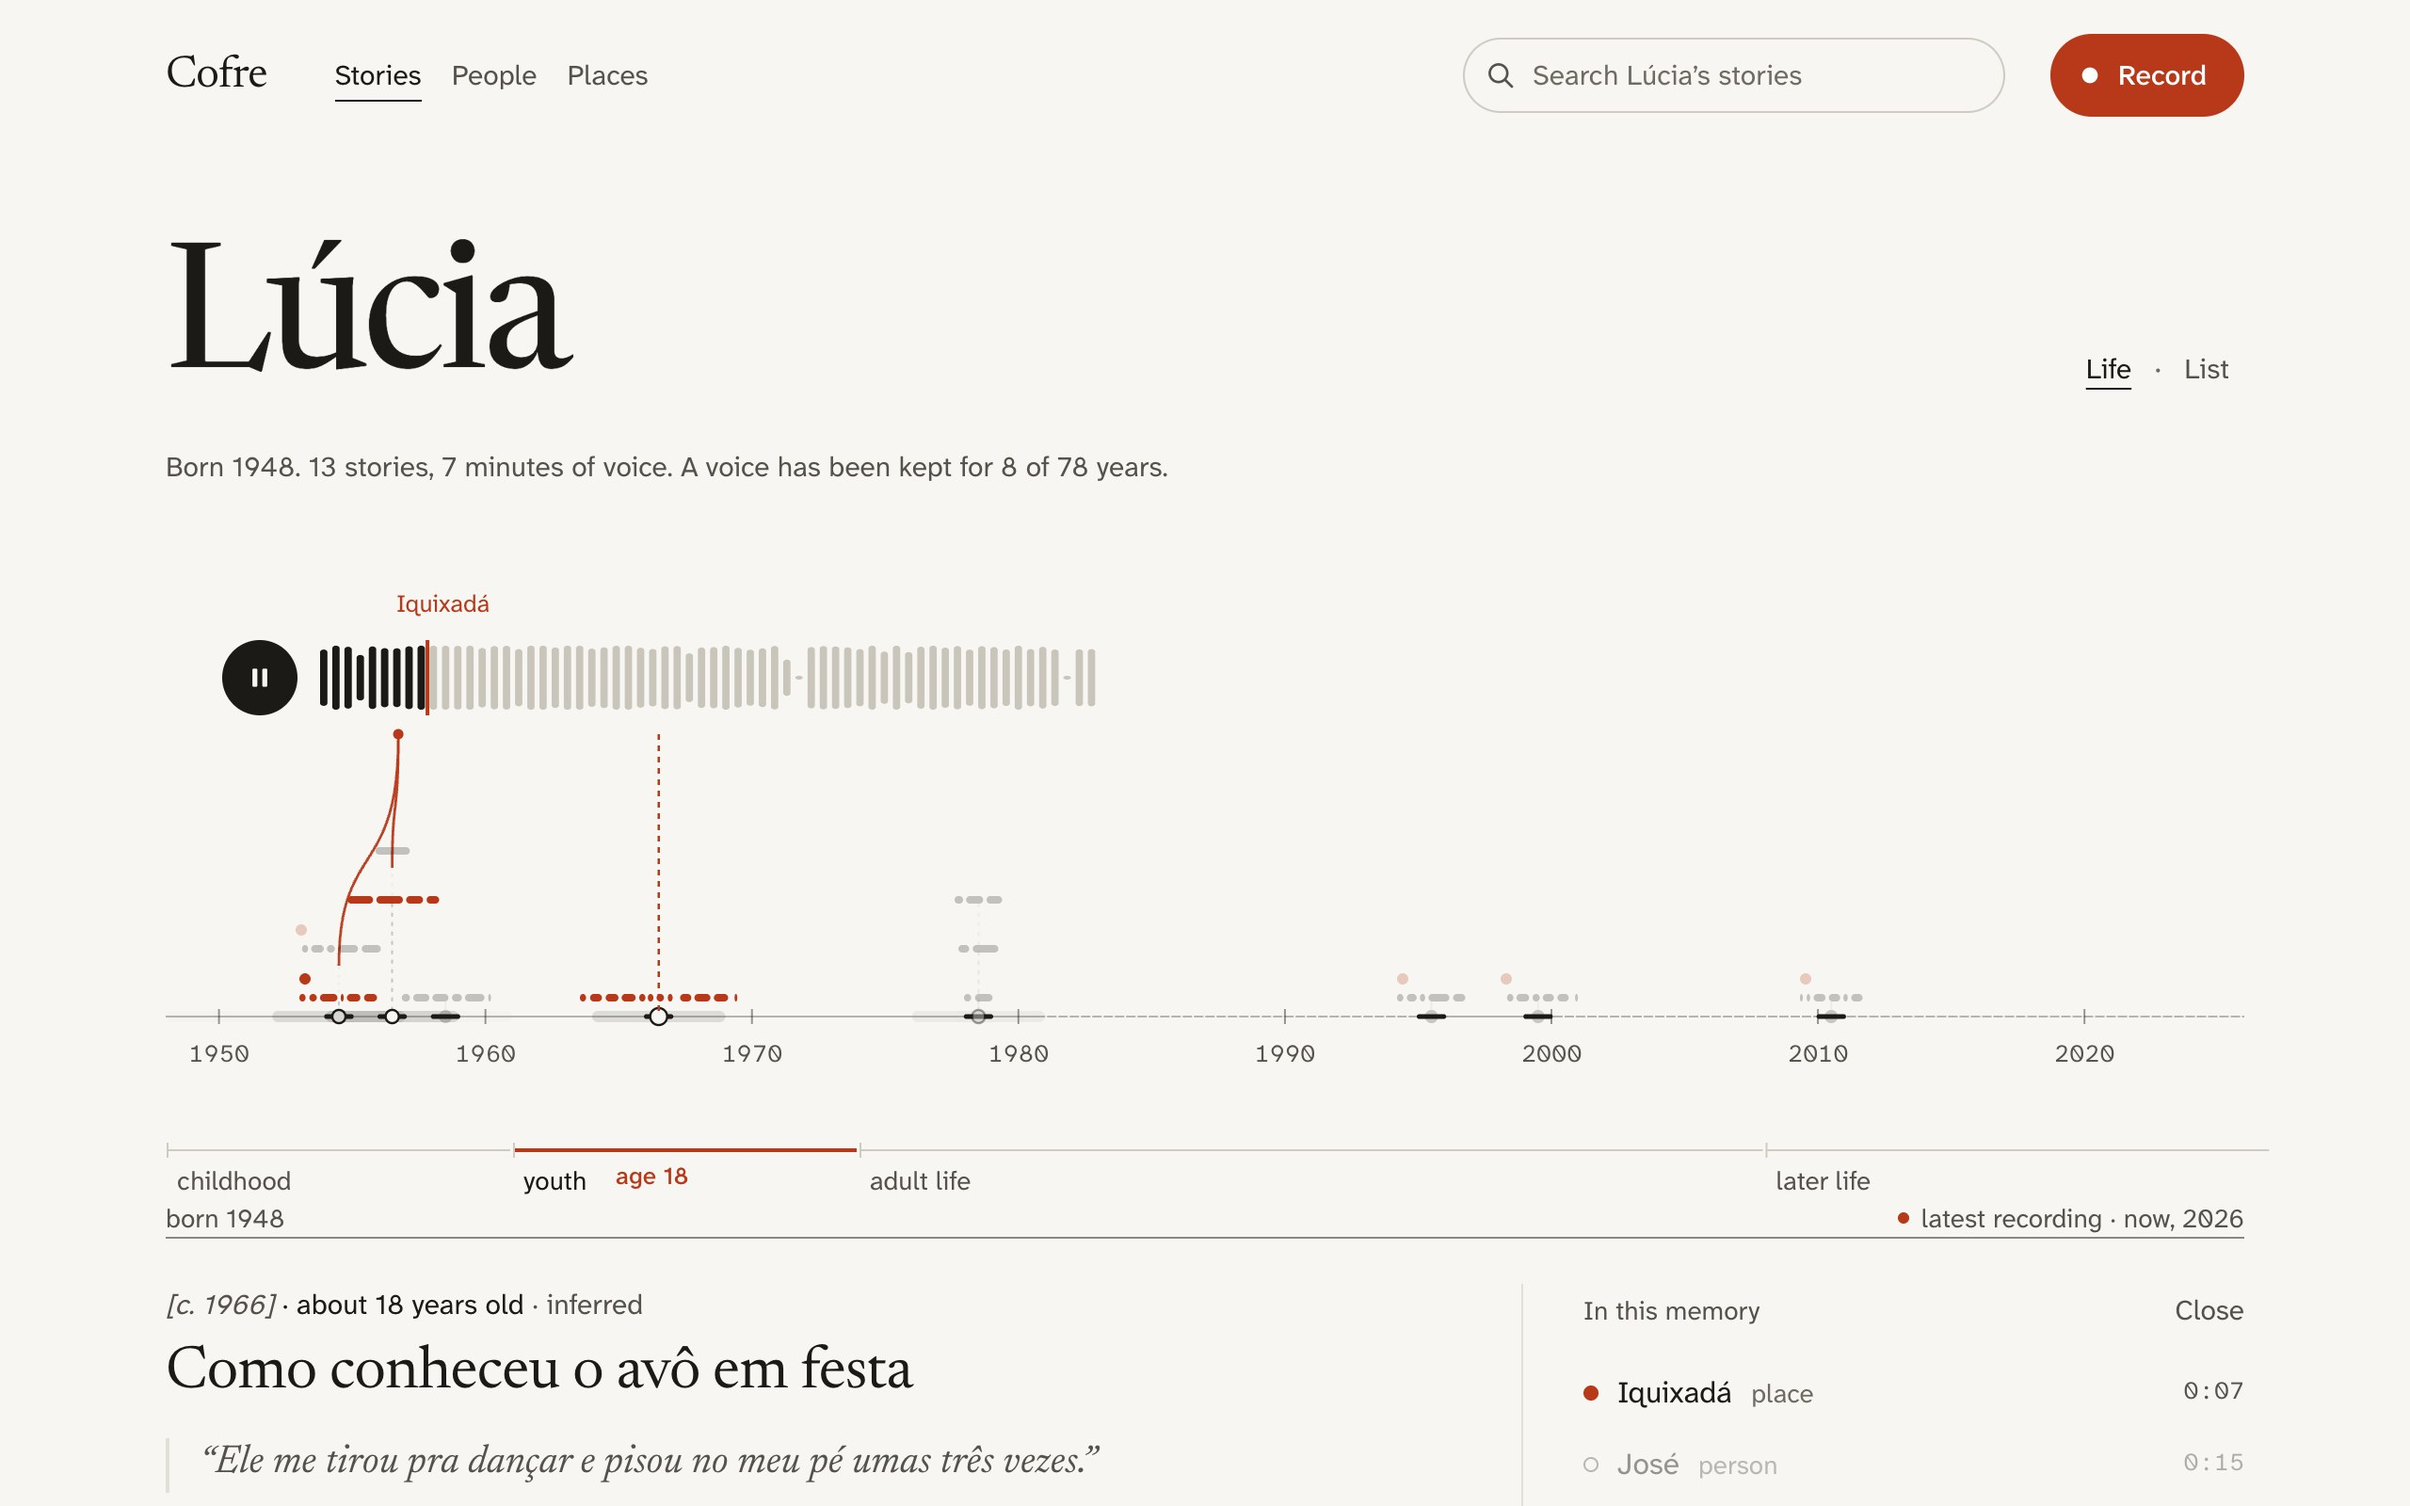
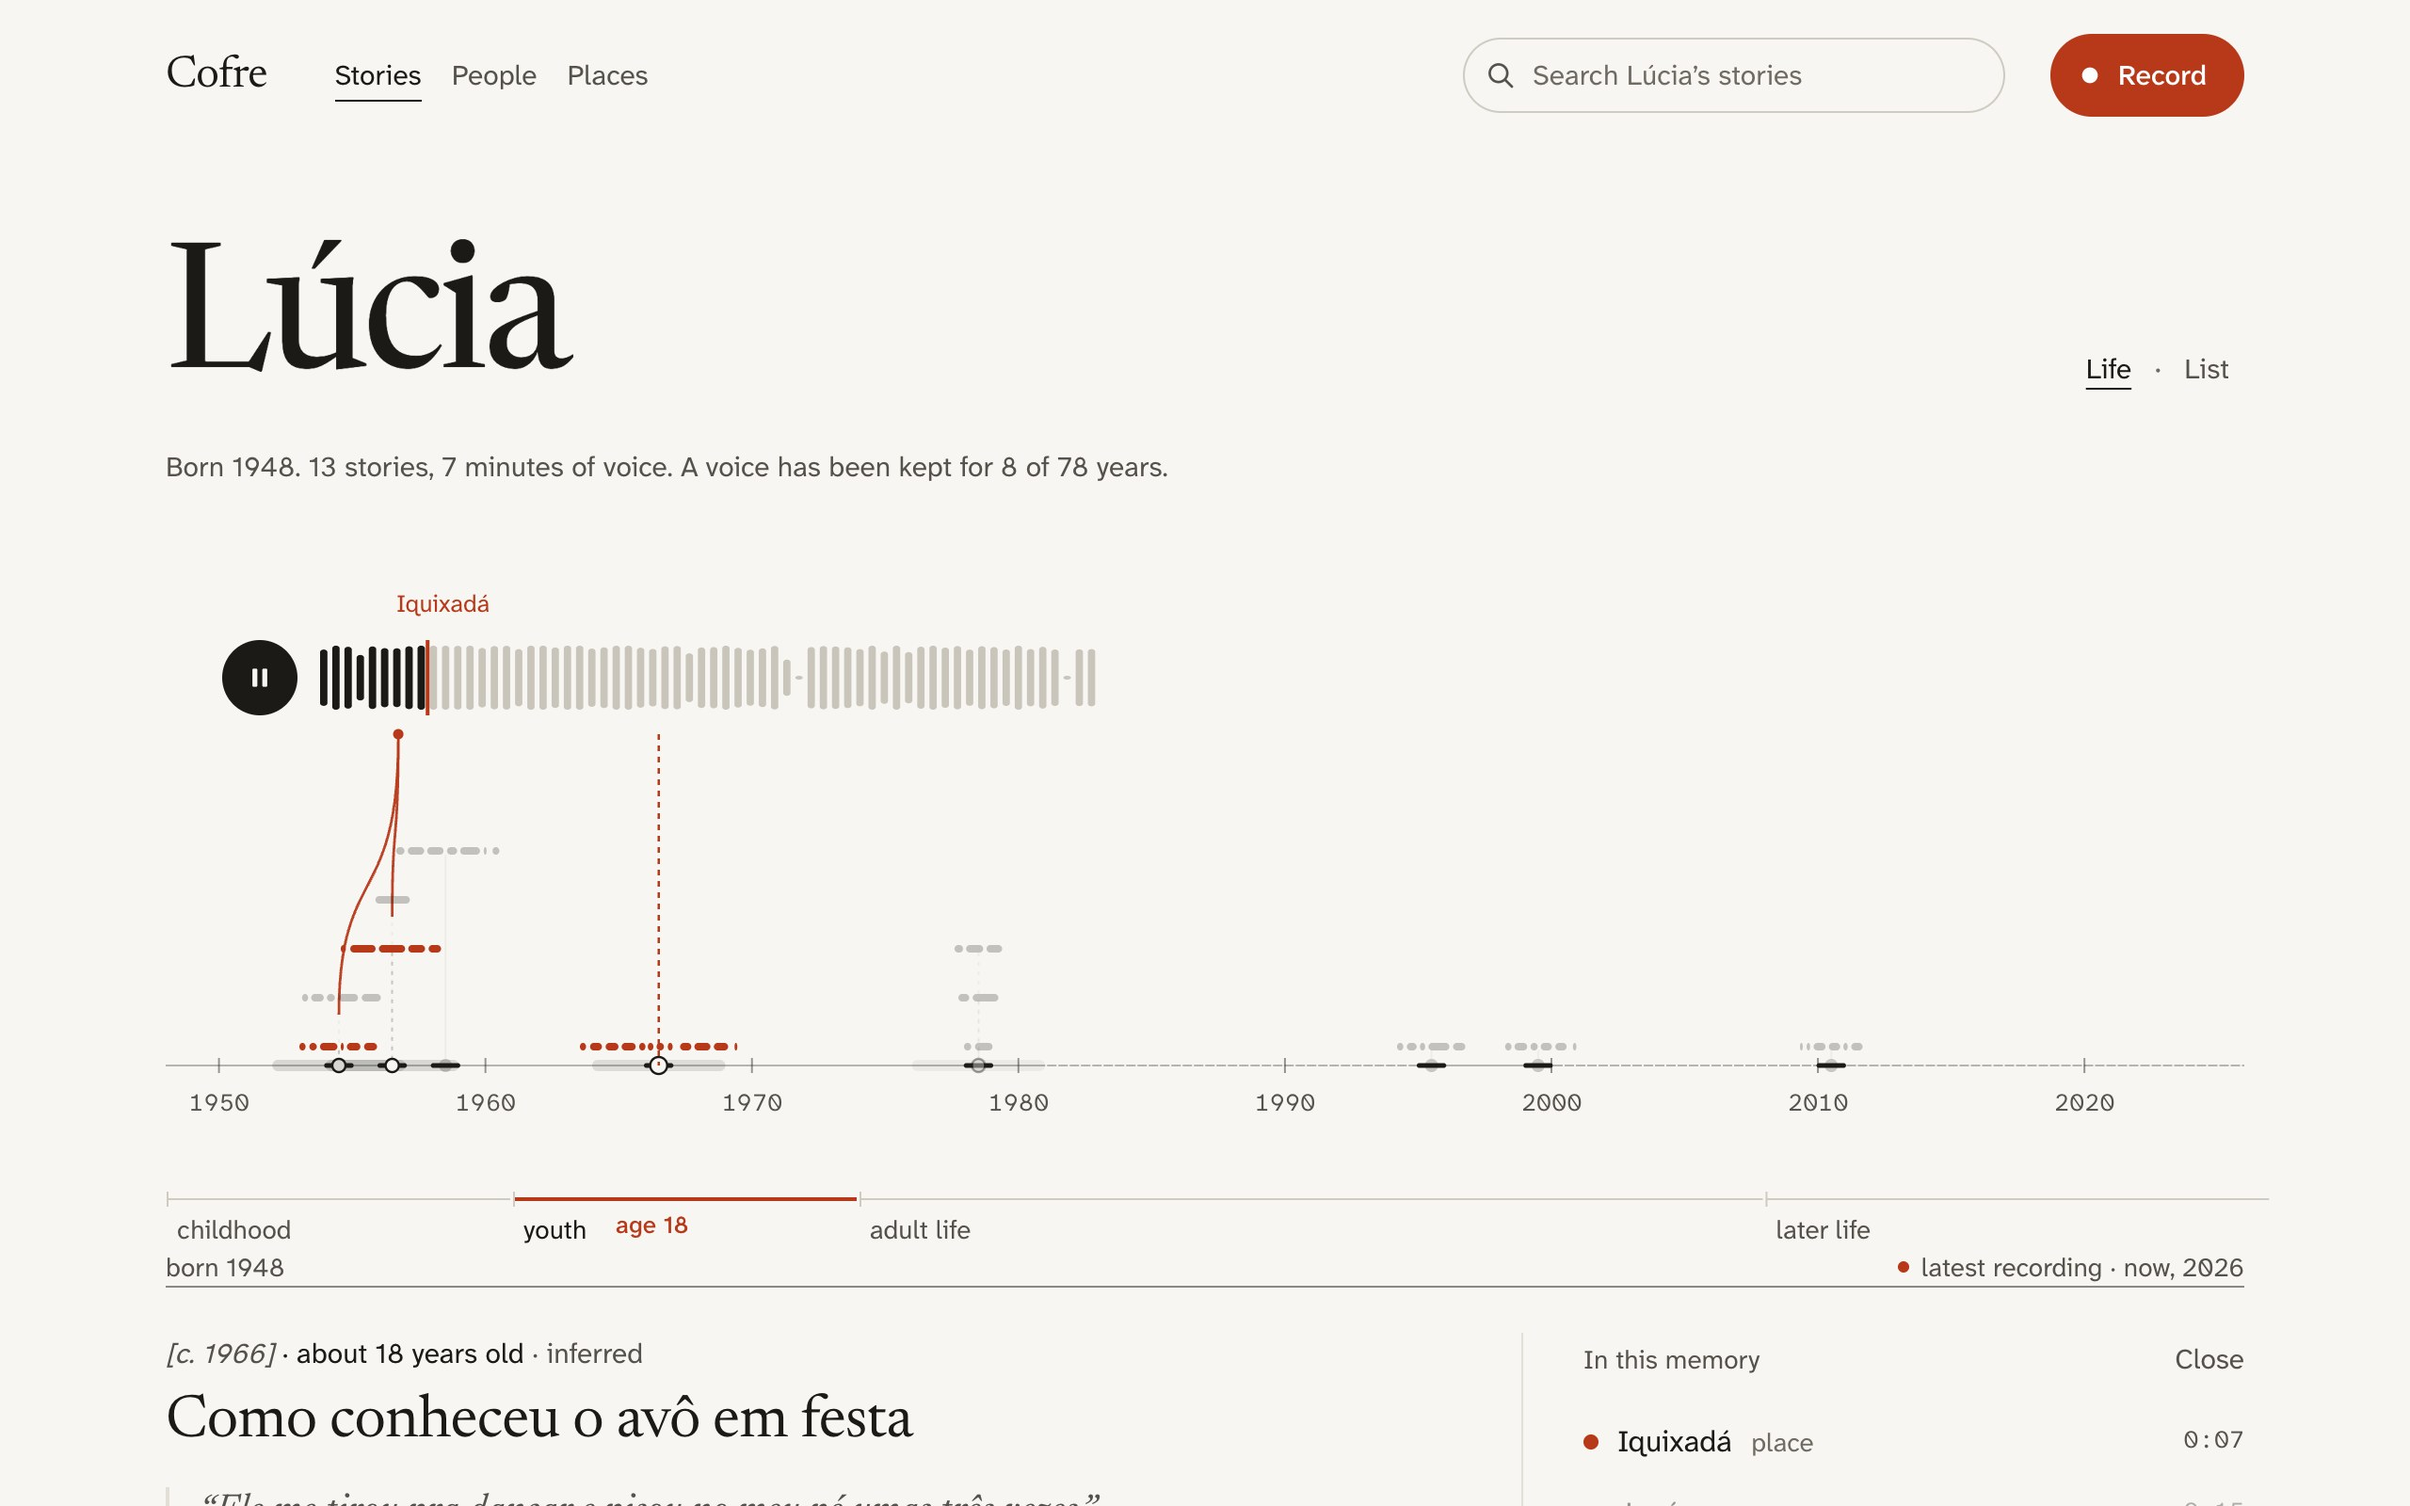
docs: refresh playback captures and notes for the new rules
The demo was reprocessed under the same rules as everyone else, so the
captures, the write-up notes and the README now show what the archive
actually does.

diff --git a/docs/writeup-notes.md b/docs/writeup-notes.md
@@ -70,8 +70,9 @@ Each of these started as something the model "could do" and became deterministic
 - **Proper names in titles.** Gemma wrote "Mudança para fortaleza"; the code restores capitals from verified entity names.
 - **Related stories.** Shared people and places. No LLM call.
 - **Search sentence and confidence.** A template, plus thresholds over cosine similarity, the gap between the first and second result, and keyword coverage.
-- **Time said in words.** "42 anos tocando" becomes a span from the story's year to +42; "dois anos depois" becomes a point two years later. Same number parser as ages, two small pattern lists per language.
-- **Every mention, not just the first.** The model annotates a person once. The code then scans the word timestamps for every known name and alias, so the second "José" also lights up at the right second.
+- **Time said in words.** "No ano seguinte", "cinco anos mais tarde", "after two years" resolve only against a year said earlier in the same story, with nothing relative in between; otherwise they are refused. "42 anos tocando" is a length, never a placed span, because the words don't say when it began. Same number parser as ages, a few pattern lists per language.
+- **Whose age it is.** "Eu tinha 18 anos" is the narrator's; "meu pai tinha 40 anos" and "a Bia tem 88 anos" are not, and are refused with that reason instead of moving a story to the wrong decade.
+- **Every mention, not just the first.** The model annotates a person once. The code then scans the word timestamps for every known name, so the second "José" also lights up at the right second. It only counts words written as names: "rio" never becomes "rio Beberibe", and "mãe" counts as the narrator's mother only after "minha".
 
 ## Listening reveals the structure
 
@@ -79,8 +80,8 @@ Playing a memory used to light a few arcs for five seconds and forget them. Now 
 
 - The memory opens **in place on the lifeline**: its vestige becomes a waveform at its own year, and the rest of the life recedes.
 - When a name is spoken, it appears above the waveform at that second, and threads drop from that exact point to every other moment of the life where the same person or place appears. Those moments come back from the background.
-- When time is spoken, it lands on the axis. "Eu tinha 18 anos" marks *age 18* and the stage *youth*. "42 anos tocando" draws a span from 1966 to 2008 that ends just before José's last memory (2010). "Dois anos depois" places the wedding at c. 1968.
-- Nothing fades. Whatever has been heard stays, quieter, and the current mention takes the voice colour for five seconds.
+- When time is spoken and the words establish it, it lands on the axis. "Eu tinha 18 anos" marks *age 18* and the stage *youth*. "42 anos tocando" shows as a length at the story's own place, not as a span, and "dois anos depois" is refused because the 42 years sit between it and the year: a person can tell, the parser can't, so nothing is invented.
+- Nothing fades. The name being said takes the voice colour and draws all its threads; when the next name arrives, the previous one condenses to a single faint thread to its nearest moment, and its other moments stay highlighted. Detail follows attention, and the trace stays.
 - At the end the trace remains, and the memory says what it touched: "This memory reaches from 1954 to 2010, through 8 other moments", plus the open question it left ("What was the church where the wedding took place?").
 
 Everything is derived from timestamps that already exist. Nothing is generated during playback, and ten seconds with no new name or date show only the waveform moving. Positions of labels are packed from the whole story before playback starts, so nothing jumps when a new name appears.
@@ -88,6 +89,10 @@ Everything is derived from timestamps that already exist. Nothing is generated d
 The reveal layer is `aria-hidden`. The same information sits in the panel as a list with "play from here" buttons, keyboard order goes fragment → play → waveform slider, Escape closes the memory, and with reduced motion every thread is drawn at once.
 
 **A benchmark that changed the hierarchy.** I compared this with Horizonte, a music player I built earlier where the album *is* the interface. What makes it land is that one object owns the screen, that zooming from collection to track is one continuous change of scale instead of a new view, and that every reaction is measured from the real audio, with a hard ceiling so it accents instead of dancing. Cofre keeps its own quiet, editorial language, so none of the shaders, darkness or motion came over. The structural lessons did: the lifeline owns the screen, opening a memory is a change of scale on the line rather than a big player below it, and every visual reaction comes from something that was actually said.
+
+## Does it work for anyone? A second archive
+
+To check that none of this depends on the demo, a second archive with a different narrator (Armando, born 1939), three languages and deliberately different constructions went through the whole pipeline in an isolated data folder, before and after the generalization work. The expected result for each of 39 cases was written down before the first run. The code as it was got 19 right and one partly, 11 wrong (a father's age shown as the narrator's, "o pai da Helena" lighting up the narrator's father, a story placed in 1936, three years before the narrator was born), missed 3 and lost 5 because whole sentences fell outside every story. After the changes: 38 of 39, and the one miss is a refusal on the safe side. A third archive with 63 stories and 59 names checks density. Everything is in `docs/generalization/`.
 
 ## Bugs found by looking at real output
 

diff --git a/README.md b/README.md
@@ -102,6 +102,19 @@ npm run reprocess
 
 `reprocess` re-reads every recording with the current model. The audio and transcripts stay as they are; only the index is rebuilt. Provenance checks live outside the interpreter, so any model goes through the same checks. See `.env.example` for every setting.
 
+## Beyond the demo
+
+Two more archives live in `fixtures/`: a second narrator in Portuguese, English and Spanish, with the expected result of every case written down, and a dense archive with 63 stories. Each one runs in its own data folder, so it never touches yours:
+
+```bash
+npm run build
+COFRE_DATA_DIR=/tmp/cofre-second npx next start -p 3901
+./scripts/fixture-archive.sh fixtures/second-archive http://localhost:3901
+node scripts/archive-report.mjs /tmp/cofre-second http://localhost:3901 /tmp/report
+```
+
+The results before and after the generalization work, case by case, are in [`docs/generalization`](docs/generalization/README.md).
+
 ## Built with
 
 Next.js, TypeScript, Tailwind CSS, SQLite (built into Node), whisper.cpp, Ollama, Gemma 4, EmbeddingGemma. Fonts: Newsreader, and Atkinson Hyperlegible Next and Mono, designed by the Braille Institute for readers with low vision.
